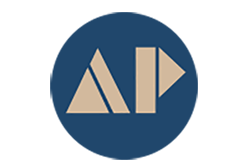
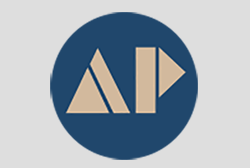
commit

diff --git a/week3/index.html b/week3/index.html
@@ -31,41 +31,49 @@
 				<a href="portfolio.html#">
 					<figure>
 						<img src="images/waffles.jpg" alt="Illustrations">
+						<figcaption><h3>Favorite Things</h3></figcaption>
 					</figure>
 				</a>
 				<a href="portfolio.html#toolkit">
 					<figure>
 						<img src="images/tool.png" alt="Identity Design">
+						<figcaption><h3>IVT Toolkit</h3></figcaption>
 					</figure>
 				</a> 
 				<a href="portfolio.html#">
 					<figure>
 						<img src="images/way.png" alt="Packaging">
+						<figcaption><h3>Hayley Reardon</h3></figcaption>
 					</figure>
 				</a>
 				<a href="portfolio.html#">
 					<figure>
 						<img src="images/dc.png" alt="Identity Design">
+						<figcaption><h3>Deux Cornichons</h3></figcaption>
 					</figure>
 				</a> 
 				<a href="portfolio.html#">
 					<figure>
-						<img src="images/waffles.jpg" alt="Identity Design">
+						<img src="images/ap.png" alt="Identity Design">
+						<figcaption><h3>Alicia and Pete</h3></figcaption>
 					</figure>
 				</a> 
 					<a href="portfolio.html#">
 					<figure>
 						<img src="images/icecream.jpg" alt="Identity Design">
+						<figcaption><h3>Ice Cream Party</h3></figcaption>
 					</figure>
 				</a>
 				<a href="portfolio.html#">
 					<figure>
 						<img src="images/coffee.png" alt="Identity Design">
+						<figcaption><h3>Illustrations</h3></figcaption>
 					</figure>
 				</a> 
 				<a href="portfolio.html#">
 					<figure>
 						<img src="images/tonight.jpg" alt="Identity Design">
+						<figcaption><h3>Nearly Deads</h3></figcaption>
 					</figure>
 				</a> 
 			</section>
